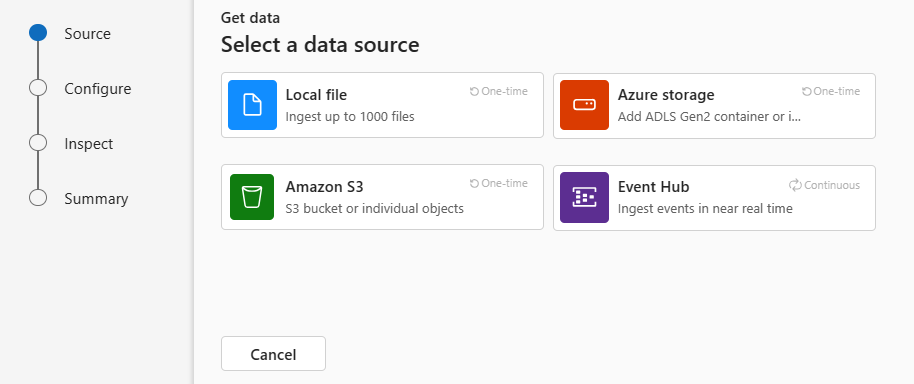
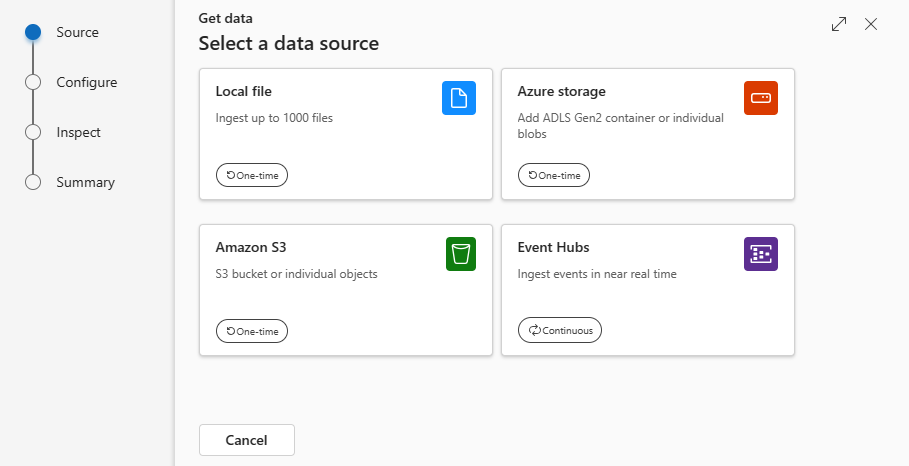
edits

diff --git a/data-explorer/get-data-event-hubs.md b/data-explorer/get-data-event-hubs.md
@@ -1,0 +1,102 @@
+---
+title: Get data from Event Hubs
+description: Learn how to get data from a local file in Azure Data Explorer.
+ms.reviewer: sharmaanshul
+ms.topic: how-to
+ms.date: 08/07/2023
+---
+# Get data from Event Hubs
+
+Data ingestion is the process used to load data records from one or more sources into a table in Azure Data Explorer. Once ingested, the data becomes available for query. In this article, you learn you how to stream data from Event Hubs into either a new or existing table.
+
+For more information about ingestion from Event Hubs, see [Create an Event Hubs data connection for Azure Data Explorer](create-event-hubs-connection.md). For general information on data ingestion, see [Azure Data Explorer data ingestion overview](ingest-data-overview.md)
+
+## Prerequisites
+
+* A Microsoft account or an Azure Active Directory user identity. An Azure subscription isn't required.
+* An Azure Data Explorer cluster and database. [Create a cluster and database](create-cluster-and-database.md).
+* Streaming ingestion must be [configured on your Azure Data Explorer cluster](ingest-data-streaming.md).
+
+## Get data
+
+1. From the left menu, select **Query**.
+
+1. Right-click on the database where you want to ingest the data. Select **Get data**.
+
+    :::image type="content" source="media/get-data-event-hubs/get-data.png" alt-text="Screenshot of query tab, with right-click on a database and the get options dialog open." lightbox="media/get-data-event-hubs/get-data.png":::
+
+## Select a data source
+
+1. In the **Get data** window, the **Source** tab is selected.
+
+1. Select the data source from the available list. In this example, you are ingesting data from **Event Hubs**.
+
+    :::image type="content" source="media/get-data-file/select-data-source.png" alt-text="Screenshot of get data window with source tab selected." lightbox="media/get-data-file/select-data-source.png":::
+
+### Configure tab
+
+1. Select a target database and table. If you want to ingest data into a new table, select **+ New table** and enter a table name.
+
+    > [!NOTE]
+    > Table names can be up to 1024 characters including spaces, alphanumeric, hyphens, and underscores. Special characters aren't supported.
+
+    :::image type="content" source="media/get-data-event-hubs/configure-tab.png" alt-text="Screenshot of configure tab with fields for configuring the data source of Event Hubs in Azure Data Explorer." lightbox="media/get-data-event-hubs/configure-tab.png":::
+
+1. Fill in the following fields: 
+
+| **Setting**                | **Field description**  |
+|--------------------------|----------|
+| Subscription               | The subscription ID where the event hub resource is located.     |
+| Event hub namespace        | The name that identifies your namespace.    |
+| Event hub                  | The event hub you wish to   |
+| Consumer group             | The consumer group defined in your event   |
+| Data connection name       | The name that identifies your data connection.                 |
+| **Advanced filters**       | 
+| Compression                | The compression type of the event hub messages payload.       |
+| Event system properties    | The [event hub system properties](/azure/service-bus-messaging/service-bus-amqp-protocol-guide#message-annotations). If there are multiple records per event message, the system properties are added to the first one. When adding system properties, [create](kusto/management/create-table-command.md) or [update](kusto/management/alter-table-command.md) table schema and [mapping](kusto/management/mappings.md) to include the selected properties. |
+| Event retrieval start date | The data connection retrieves existing Event Hubs events created after the *Event retrieval start date*. Only events retained by Event Hubs's retention period can be retrieved. If the *Event retrieval start date* isn't specified, the default time is the time at which the data connection is created.   |
+
+1. Select **Next**
+
+## Inspect the data
+
+The **Inspect** tab opens with a preview of the data.
+
+:::image type="content" source="media/get-data-event-hubs/inspect-data.png" alt-text="Screenshot of inspecting data for ingesting from Event Hubs to Azure Data Explorer." lightbox="media/get-data-event-hubs/inspect-data.png":::
+
+1. If the data you see in the preview window isn't complete, you may need more data to create a table with all necessary data fields. Use the following commands to fetch new data from your event hub:
+
+    * **Discard and fetch new data**: discards the data presented and searches for new events.
+    * **Fetch more data**: Searches for more events in addition to the events already found.
+
+    > [!NOTE]
+    > To see a preview of your data, your event hub must be sending events.
+1. Select **Command viewer** to view and copy the automatic commands generated from your inputs.
+1. The data format is automatically inferred. You can change the data format by selecting the desired format from the dropdown. See [Data formats supported by Azure Data Explorer for ingestion](ingestion-supported-formats.md).
+1. Optionally, [Edit columns](#edit-columns).
+1. Optionally, explore [Advanced options based on data type](#advanced-options-based-on-data-type).
+1. Select **Finish** to complete the ingestion process.
+
+
+[!INCLUDE [get-data-edit-columns](includes/get-data-edit-columns.md)]
+
+:::image type="content" source="media/get-data-file/edit-columns.png" alt-text="Screenshot of columns open for editing." lightbox="media/get-data-file/edit-columns.png":::
+
+[!INCLUDE [mapping-transformations](includes/mapping-transformations.md)]
+
+[!INCLUDE [get-data-advanced-options](includes/get-data-advanced-options.md)]
+
+
+## Summary
+
+In the **Data preparation** window, all three steps are marked with green check marks when data ingestion finishes successfully. You can view the commands that were used for each step, or select a card to query, visualize, or drop the ingested data.
+
+:::image type="content" source="media/get-data-event-hubs/summary.png" alt-text="Summary screen of getting data from Event Hubs in Azure Data Explorer.":::
+
+## Next steps
+
+* Explore the results in the [Azure Data Explorer web UI query](web-ui-query-overview.md)
+* [Write Kusto Query Language queries in the web UI](web-ui-kql.md)
+* [Tutorial: Learn common Kusto Query Language operators](kusto/query/tutorials/learn-common-operators.md)
+* [Visualize data with Azure Data Explorer dashboards](azure-data-explorer-dashboards.md)
+* [Use the sample app generator wizard to create code to ingest and query your data](sample-app-generator-wizard.md)
